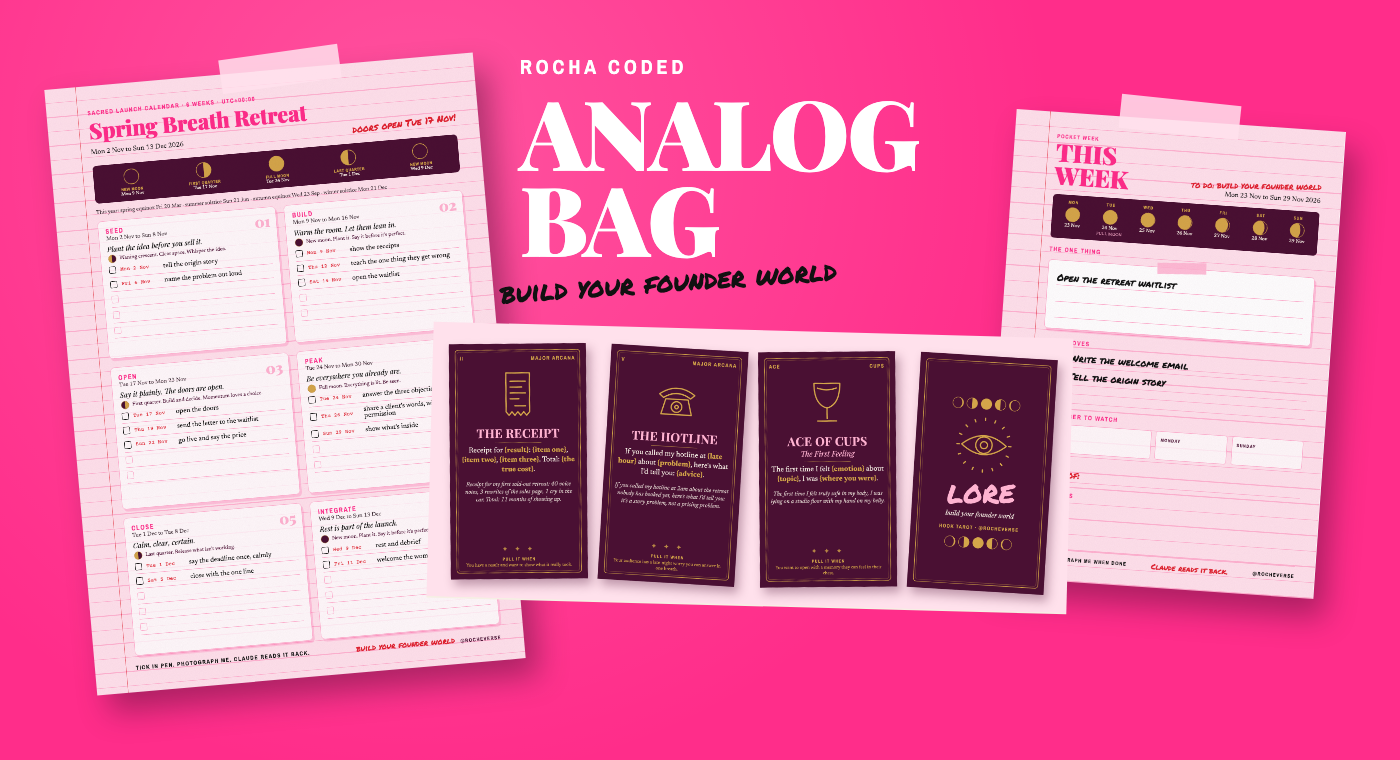
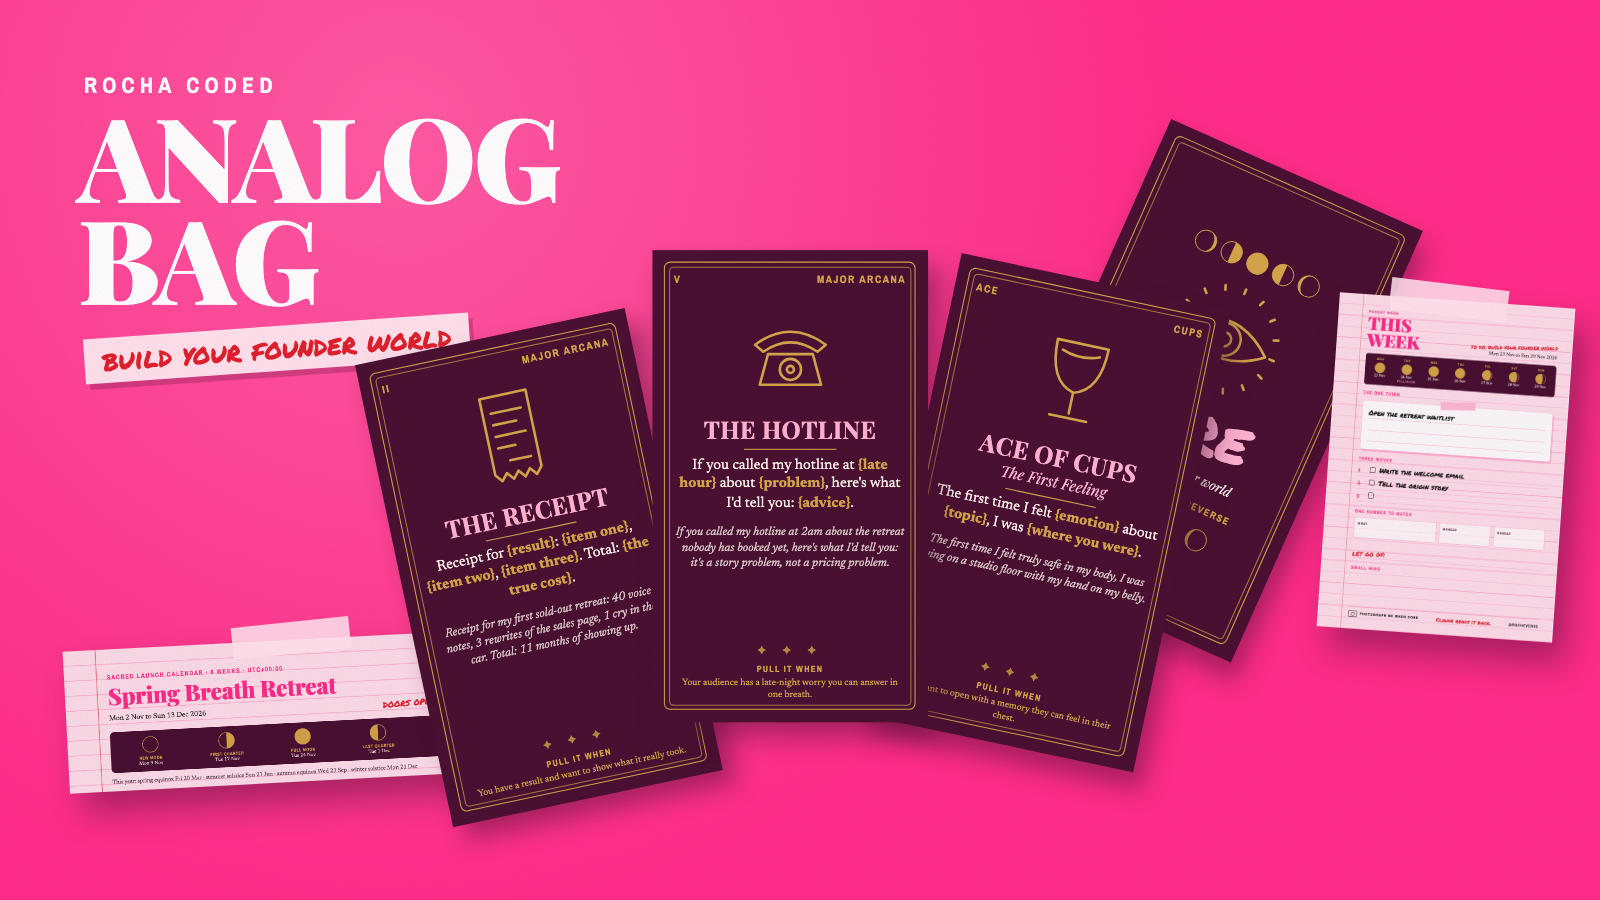
analog-bag: hero recomposition, week numerals and to-do line
Hero at 1600x900: real card HTML fanned in the centre with the LORE back behind,
wordmark top left, week page fully in frame on the right, launch page cropped to
its title and moon strip. Week page: move numerals clear of the boxes in full
pink, keep the to-do line on one line.

diff --git a/scripts/make_examples.py b/scripts/make_examples.py
@@ -15,6 +15,7 @@ ROOT = Path(__file__).resolve().parent.parent
 sys.path.insert(0, str(ROOT))
 
 from core import render  # noqa: E402
+from core import style as S  # noqa: E402
 from core.style import page  # noqa: E402
 
 EX = ROOT / "examples"
@@ -59,39 +60,64 @@ def main() -> int:
         "--move", "Tell the origin story", "--html-only")
     png(BUILD / "week.html", EX / "week.png", 560, 794)
 
-    hero = page("analog-bag hero", HERO_CSS, HERO_BODY.format(
-        tarot=(EX / "tarot-cards.png").as_uri(), launch=(EX / "launch.png").as_uri(),
-        week=(EX / "week.png").as_uri()))
+    ok, err = render.html_to_png(BUILD / "launch.html", BUILD / "launch-top.png", 794, 250, 2)
+    if not ok:
+        raise SystemExit(f"render failed: {err}")
     hero_html = BUILD / "hero.html"
-    hero_html.write_text(hero, encoding="utf-8")
+    hero_html.write_text(hero_page(), encoding="utf-8")
     (ROOT / "docs" / "img").mkdir(parents=True, exist_ok=True)
-    png(hero_html, ROOT / "docs" / "img" / "hero.png", 1400, 760)
+    png(hero_html, ROOT / "docs" / "img" / "hero.png", 1600, 900)
     print("examples and hero rendered")
     return 0
 
 
+def hero_page() -> str:
+    """The README hero: real card HTML fanned in the centre, the week page on the
+    right, the launch page cropped to its title and moon strip, bottom left."""
+    import importlib.util
+    spec = importlib.util.spec_from_file_location("tarot_print_hero", ROOT / "tarot" / "print.py")
+    tp = importlib.util.module_from_spec(spec)
+    spec.loader.exec_module(tp)
+    deck = {c["name"]: c for c in tp.load_deck()["cards"]}
+    cards = [tp.front(deck[n], "tarot", 0, 0) for n in ("The Receipt", "The Hotline", "Ace of Cups")]
+    fan = (f"<div class='slot back'>{tp.back('tarot', 0, 0)}</div>"
+           f"<div class='slot left'>{cards[0]}</div><div class='slot right'>{cards[2]}</div>"
+           f"<div class='slot mid'>{cards[1]}</div>")
+    body = HERO_BODY.format(fan=fan, week=(EX / "week.png").as_uri(),
+                            launch=(BUILD / "launch-top.png").as_uri(), scrawl=S.line("scrawl"))
+    return page("analog-bag hero", ":root{--cw:70mm;--ch:120mm;--s:1}" + tp.CSS + HERO_CSS, body)
+
+
 HERO_CSS = """
-body{background:var(--hot);width:1400px;height:760px;overflow:hidden}
-.desk{position:relative;width:1400px;height:760px;background:var(--hot)}
-.desk::before{content:"";position:absolute;inset:0;background:radial-gradient(circle at 30% 20%,rgba(255,255,255,.18),transparent 55%)}
-.shot{position:absolute;box-shadow:12px 18px 30px rgba(74,16,51,.45);background:#fff}
-.launch{left:70px;top:70px;width:430px;transform:rotate(-5deg)}
-.week{left:1000px;top:120px;width:330px;transform:rotate(4deg)}
-.tarot{left:430px;top:330px;width:640px;transform:rotate(1.5deg);background:transparent;box-shadow:none}
-.title{position:absolute;left:520px;top:58px;color:var(--white);font-family:var(--didone);font-weight:900;font-size:96px;line-height:.9;letter-spacing:-.02em}
-.title small{display:block;font-family:var(--tag);font-size:20px;letter-spacing:.2em;font-weight:700;margin-bottom:12px}
-.scrawl{position:absolute;left:500px;top:262px;font-family:var(--marker);color:var(--ink);font-size:27px;transform:rotate(-4deg)}
-.tape{position:absolute;width:120px;height:34px;background:rgba(255,225,236,.85)}
+html,body{width:1600px;height:900px;overflow:hidden;background:var(--hot)}
+.desk{position:relative;width:1600px;height:900px;background:var(--hot);overflow:hidden}
+.desk::before{content:"";position:absolute;inset:0;background:radial-gradient(circle at 25% 15%,rgba(255,255,255,.22),transparent 55%)}
+.label{position:absolute;left:84px;top:70px;color:var(--white);font-family:var(--tag);font-weight:700;font-size:22px;letter-spacing:.24em}
+.word{position:absolute;left:78px;top:104px;color:var(--white);font-family:var(--didone);font-weight:900;font-size:116px;line-height:.88;letter-spacing:-.02em}
+.scrawl{position:absolute;left:84px;top:326px;font-family:var(--marker);color:var(--red);font-size:28px;transform:rotate(-4deg);
+  background:var(--paper);padding:2px 18px;box-shadow:4px 6px 0 rgba(74,16,51,.25)}
+.fan{position:absolute;left:790px;top:500px;width:0;height:0}
+.slot{position:absolute;left:0;top:0;transform-origin:50% 100%}
+.slot .card{position:relative;transform:translate(-50%,-50%) scale(1.04);transform-origin:50% 50%;box-shadow:3mm 4mm 6mm rgba(74,16,51,.45)}
+.slot.back{transform:translate(215px,-95px) rotate(24deg)}
+.slot.left{transform:translate(-160px,30px) rotate(-12deg)}
+.slot.right{transform:translate(160px,30px) rotate(12deg)}
+.slot.mid{transform:translate(0,-14px)}
+.shot{position:absolute;box-shadow:14px 20px 32px rgba(74,16,51,.45);background:#fff}
+.week{left:1328px;top:300px;width:236px;transform:rotate(4deg)}
+.launch{left:66px;top:640px;width:450px;transform:rotate(-3deg)}
+.tape{position:absolute;width:118px;height:32px;background:rgba(255,225,236,.88)}
 """
 
-HERO_BODY = """<div class='desk'>
+HERO_BODY = """<div class='desk grain'>
 <img class='shot launch' src='{launch}' alt=''>
-<div class='tape' style='left:220px;top:52px;transform:rotate(-8deg)'></div>
+<div class='tape' style='left:232px;top:622px;transform:rotate(-6deg)'></div>
+<div class='label'>ROCHA CODED</div>
+<div class='word'>ANALOG<br>BAG</div>
+<div class='scrawl'>{scrawl}</div>
+<div class='fan'>{fan}</div>
 <img class='shot week' src='{week}' alt=''>
-<div class='tape' style='left:1120px;top:100px;transform:rotate(6deg)'></div>
-<div class='title'><small>ROCHA CODED</small>ANALOG<br>BAG</div>
-<div class='scrawl'>build your founder world</div>
-<img class='shot tarot' src='{tarot}' alt=''>
+<div class='tape' style='left:1390px;top:284px;transform:rotate(7deg)'></div>
 </div>"""
 
 if __name__ == "__main__":

diff --git a/week/week.py b/week/week.py
@@ -35,7 +35,7 @@ body{background:#fff}
 .kicker{color:var(--hot);font-size:7pt}
 h1{font-family:var(--didone);font-weight:900;color:var(--hot);font-size:31pt;line-height:.95;letter-spacing:-.01em}
 .range{font-size:8.6pt;text-align:right}
-.range .marker{font-size:9pt;display:block;transform:rotate(-3deg);margin-bottom:1mm}
+.range .marker{font-size:8.4pt;display:block;white-space:nowrap;transform:rotate(-3deg);margin-bottom:1mm}
 .moons{display:grid;grid-template-columns:repeat(7,1fr);gap:1mm;margin:3.5mm 0 3mm;padding:2mm 1.5mm;background:var(--plum);border-radius:1.6mm}
 .day{display:flex;flex-direction:column;align-items:center;color:var(--cream);font-size:6.4pt;gap:.6mm}
 .day .tag{color:var(--gold);font-size:5.6pt}
@@ -47,7 +47,7 @@ h1{font-family:var(--didone);font-weight:900;color:var(--hot);font-size:31pt;lin
 .one .line{border-bottom:.3mm solid var(--candy);height:7.2mm}
 .write{font-family:var(--marker);color:var(--ink);font-size:12pt;line-height:7.2mm}
 .move{display:flex;align-items:center;gap:2.4mm;border-bottom:.3mm solid var(--candy);height:8.2mm}
-.move .n{font-family:var(--didone);font-weight:900;color:var(--candy);font-size:13pt;width:4mm}
+.move .n{font-family:var(--didone);font-weight:900;color:var(--hot);font-size:11pt;width:5mm;flex:none;text-align:left;line-height:1}
 .number{display:grid;grid-template-columns:1.6fr 1fr 1fr;gap:2mm;margin:1mm 0 4mm}
 .cell{background:rgba(255,255,255,.75);border:.3mm solid var(--candy);border-radius:1.2mm;padding:1.2mm 2mm;height:13mm}
 .cell .tag{font-size:5.8pt;color:var(--plum)}
